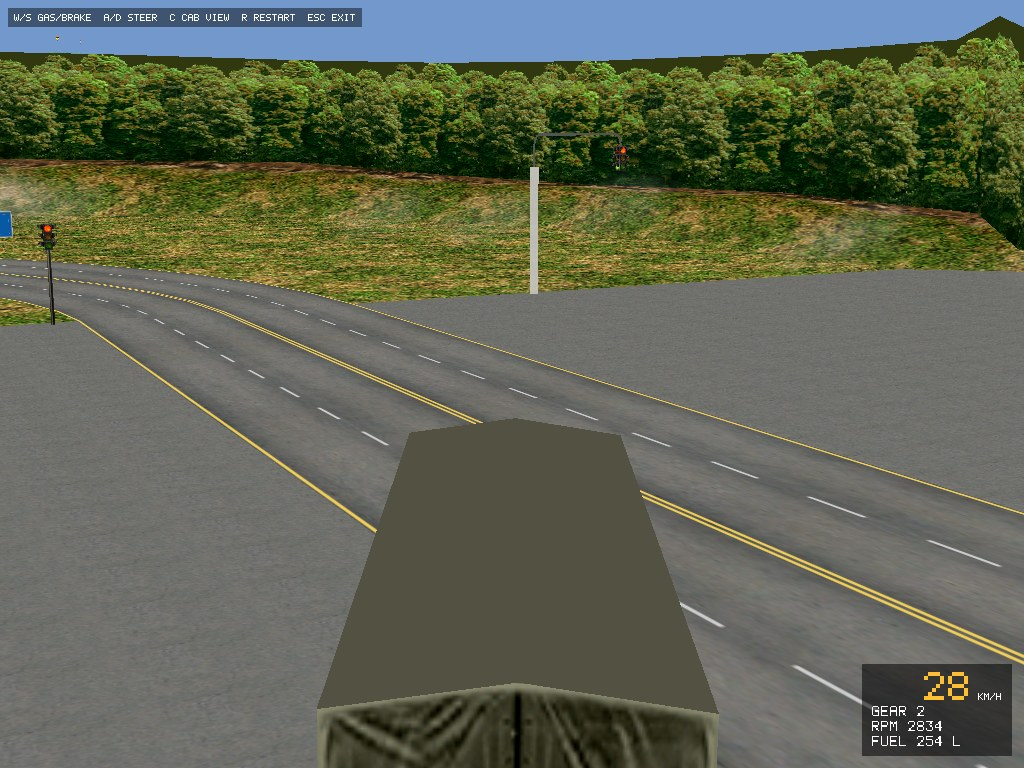
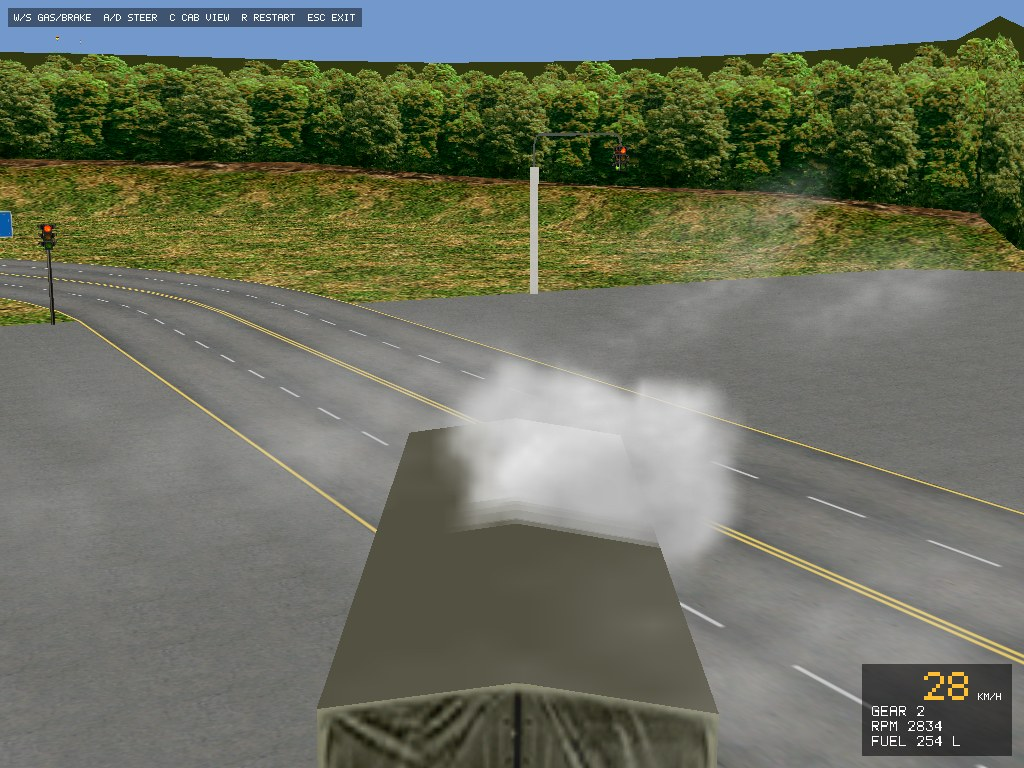
Drive particle emission from the ported 0x551970 branches

diff --git a/site/index.html b/site/index.html
@@ -62,7 +62,7 @@
 
 </details><div class="section-head"><h2 id="gallery">Галерея скриншотов</h2><p>Кадры из openHT2: текущая сборка, открытый мир и история переноса. Нажмите на снимок, чтобы рассмотреть детали.</p></div><div class="filters" role="group" aria-label="Фильтр галереи"><button data-filter="all" aria-pressed="true">Все кадры</button><button data-filter="new" aria-pressed="false">Новые</button><button data-filter="world" aria-pressed="false">Мир и локации</button><button data-filter="traffic" aria-pressed="false">Техника и ИИ</button></div><p id="gallery-count" aria-live="polite"></p>
   <p>Это работа самого движка openHT2 на данных установленной копии игры: открытый мир, гоночная трасса, грузовик, комбинат и арена.</p>
-  <div class="shots"><figure data-category="new"><a href="img/particles.jpg"><img src="img/particles.jpg" alt="Пыль из-под колёс в сцене" loading="lazy" width="1024" height="768"></a><figcaption><span class="badge">НОВОЕ</span><b>Частицы в сцене</b><br>Менеджер частиц подключён к грузовику, спрайты пыли и дыма из игровых ресурсов. Условия выброса пока временные. Кадр из openHT2; ресурсы принадлежат оригинальной игре.</figcaption></figure><figure data-category="new"><a href="img/cockpit-radar.jpg"><img src="img/cockpit-radar.jpg" alt="Кабина с радар-детектором" loading="lazy" width="1024" height="768"></a><figcaption><span class="badge">НОВОЕ</span><b>Исходные состояния приборов</b><br>После переноса переключателей B3D виден радар-детектор с индикаторами. Его начальный вид взят из файла; реакция на игровые события ещё не подключена.</figcaption></figure><figure data-category="new"><a href="img/cockpit-zil.jpg"><img src="img/cockpit-zil.jpg" alt="Приборы ЗИЛа в движении" loading="lazy" width="1024" height="768"></a><figcaption><span class="badge">НОВОЕ</span><b>Приборы ЗИЛа в движении</b><br>Оригинальная 3D-кабина: спидометр, тахометр и топливо подключены к симуляции. Остальные индикаторы ещё в работе.</figcaption></figure><figure data-category="new"><a href="img/cockpit-kamaz.jpg"><img src="img/cockpit-kamaz.jpg" alt="Кабина КамАЗа" loading="lazy" width="1024" height="768"></a><figcaption><span class="badge">НОВОЕ</span><b>Кабина КамАЗа</b><br>Своя панель и шкалы из CABINES.B3D. Камера сиденья пока временная.</figcaption></figure><figure data-category="new"><a href="img/current-chase.jpg"><img src="img/current-chase.jpg" alt="Камера за грузовиком" loading="lazy" width="1024" height="768"></a><figcaption><span class="badge">НОВОЕ</span><b>Камера за грузовиком</b><br>ЗИЛ у аэропорта. Текущий порт матриц и проекции; положение камеры пока временное.</figcaption></figure><figure data-category="new"><a href="img/current-cab.jpg"><img src="img/current-cab.jpg" alt="Вид из кабины" loading="lazy" width="1024" height="768"></a><figcaption><span class="badge">НОВОЕ</span><b>Вид из кабины</b><br>Аэропорт ENV с места водителя. Точка глаз и интерфейс пока временные.</figcaption></figure><figure data-category="new"><a href="img/current-overview.jpg"><img src="img/current-overview.jpg" alt="Дороги вокруг аэропорта" loading="lazy" width="1024" height="768"></a><figcaption><span class="badge">НОВОЕ</span><b>Дороги вокруг аэропорта</b><br>Свежий обзор района старта. Отладочная камера сверху.</figcaption></figure><figure data-category="new"><a href="img/current-road.jpg"><img src="img/current-road.jpg" alt="Первые метры пути" loading="lazy" width="1024" height="768"></a><figcaption><span class="badge">НОВОЕ</span><b>Первые метры пути</b><br>ЗИЛ после восьми секунд движения на перенесённой физике.</figcaption></figure>
+  <div class="shots"><figure data-category="new"><a href="img/particles.jpg"><img src="img/particles.jpg" alt="Пыль из-под колёс в сцене" loading="lazy" width="1024" height="768"></a><figcaption><span class="badge">НОВОЕ</span><b>Частицы в сцене</b><br>Выброс идёт через перенесённые ветки <code>0x551970</code> (колёса и выхлоп, побитовые сравнения с эмулятором) по временной сцене машины: пыль из-под колёс и пар выхлопа. Кадр из openHT2; ресурсы принадлежат оригинальной игре.</figcaption></figure><figure data-category="new"><a href="img/cockpit-radar.jpg"><img src="img/cockpit-radar.jpg" alt="Кабина с радар-детектором" loading="lazy" width="1024" height="768"></a><figcaption><span class="badge">НОВОЕ</span><b>Исходные состояния приборов</b><br>После переноса переключателей B3D виден радар-детектор с индикаторами. Его начальный вид взят из файла; реакция на игровые события ещё не подключена.</figcaption></figure><figure data-category="new"><a href="img/cockpit-zil.jpg"><img src="img/cockpit-zil.jpg" alt="Приборы ЗИЛа в движении" loading="lazy" width="1024" height="768"></a><figcaption><span class="badge">НОВОЕ</span><b>Приборы ЗИЛа в движении</b><br>Оригинальная 3D-кабина: спидометр, тахометр и топливо подключены к симуляции. Остальные индикаторы ещё в работе.</figcaption></figure><figure data-category="new"><a href="img/cockpit-kamaz.jpg"><img src="img/cockpit-kamaz.jpg" alt="Кабина КамАЗа" loading="lazy" width="1024" height="768"></a><figcaption><span class="badge">НОВОЕ</span><b>Кабина КамАЗа</b><br>Своя панель и шкалы из CABINES.B3D. Камера сиденья пока временная.</figcaption></figure><figure data-category="new"><a href="img/current-chase.jpg"><img src="img/current-chase.jpg" alt="Камера за грузовиком" loading="lazy" width="1024" height="768"></a><figcaption><span class="badge">НОВОЕ</span><b>Камера за грузовиком</b><br>ЗИЛ у аэропорта. Текущий порт матриц и проекции; положение камеры пока временное.</figcaption></figure><figure data-category="new"><a href="img/current-cab.jpg"><img src="img/current-cab.jpg" alt="Вид из кабины" loading="lazy" width="1024" height="768"></a><figcaption><span class="badge">НОВОЕ</span><b>Вид из кабины</b><br>Аэропорт ENV с места водителя. Точка глаз и интерфейс пока временные.</figcaption></figure><figure data-category="new"><a href="img/current-overview.jpg"><img src="img/current-overview.jpg" alt="Дороги вокруг аэропорта" loading="lazy" width="1024" height="768"></a><figcaption><span class="badge">НОВОЕ</span><b>Дороги вокруг аэропорта</b><br>Свежий обзор района старта. Отладочная камера сверху.</figcaption></figure><figure data-category="new"><a href="img/current-road.jpg"><img src="img/current-road.jpg" alt="Первые метры пути" loading="lazy" width="1024" height="768"></a><figcaption><span class="badge">НОВОЕ</span><b>Первые метры пути</b><br>ЗИЛ после восьми секунд движения на перенесённой физике.</figcaption></figure>
     <figure data-category="traffic"><a href="img/ai_models.jpg"><img src="img/ai_models.jpg" alt="Легковая и тягач Scania из мира ИИ на дороге ENV" loading="lazy" width="1024" height="768"></a><figcaption>Машины мира ИИ со своими моделями из каталога <code>evehicles.sch</code>: у каждой своя запись <code>vehicle.tech</code> для перенесённой физики</figcaption></figure>
     <figure data-category="traffic"><a href="img/ai_world.jpg"><img src="img/ai_world.jpg" alt="Машина мира ИИ на дороге ENV" loading="lazy" width="1024" height="768"></a><figcaption>Машина из мира ИИ оригинала: «призрак», появившийся на кольце 320 м вокруг игрока и едущий своим маршрутом</figcaption></figure>
     <figure data-category="traffic"><a href="img/ai_follow.jpg"><img src="img/ai_follow.jpg" alt="Камера за машиной потока ИИ на серпантине" loading="lazy" width="1024" height="768"></a><figcaption>Камера за одной из машин потока: маршрут к случайному узлу назначения — перенесённые генератор, выбор назначения и поиск пути модуля дорог</figcaption></figure>
@@ -330,7 +330,7 @@ cargo run --release -p ht2-tool -- res-ls "&lt;папка игры&gt;/ENV/aa.re
 <p>Частицы: 40 сквозных сценариев создания, движения и удаления совпали с оригиналом. Игровое подключение и отрисовка ещё в работе.</p>
 <p>Частицы: добавлен allocator приложения; три полных цикла проверяют освобождение и повторное использование ресурсов. SimCar и отрисовка ещё не подключены.</p>
 <p>Частицы: добавлен runtime приложения с пулом, часами и очисткой; проверены исчерпание, истечение и reuse. SimCar и рендер ещё не подключены.</p>
-<p>Частицы: менеджер шести классов (пыль, дым, пар, сажа, вспышка, сцена) собран в игре и подключён к грузовику: создание, обновление и удаление проверены без утечек, полный набор тестов проходит. Спрайты берутся из <code>COMMON.RES</code> и рисуются в сцене. Условия выброса, ёмкость пулов и положение сиденья пока заглушки: слой полей машины <code>0x54xxxx</code> не перенесён. Сравнения кадров с оригиналом ещё нет.</p>
+<p>Частицы: менеджер шести классов (пыль, дым, пар, сажа, вспышка, сцена) собран в игре и подключён к грузовику: создание, обновление и удаление проверены без утечек, полный набор тестов проходит. Спрайты берутся из <code>COMMON.RES</code> и рисуются в сцене. Ветки колёс, выхлопа и вспышек <code>0x551970</code> перенесены и проверены; поля машины <code>0x54xxxx</code>, запись <code>0x697xxx</code>, ёмкость пулов и оси сцены пока заглушки. Сравнения кадров с оригиналом ещё нет.</p>
 <p>Дым: перенесён исходный поиск материалов msmoke, 24 сравнения имён и флагов. Загрузка ресурсов в runtime и рендер ещё в работе.</p>
 <p>Дым: поиск материалов соединён с runtime и сменой кадра анимации. Архивный lookup и рендер ещё в работе.</p>
 </body>

diff --git a/crates/ht2-game/src/effects.rs b/crates/ht2-game/src/effects.rs
@@ -23,6 +23,9 @@ pub struct Effects {
     objects: Vec<Vec<ObjectId>>,
     index: HashMap<String, usize>,
     used: Vec<usize>,
+    /// Address of the stand-in vehicle scene object inside `mem`.
+    scene_at: u32,
+    previous_speed: f32,
 }
 
 fn effect_material_names(res_path: &Path) -> Result<Vec<String>, String> {
@@ -45,6 +48,42 @@ fn effect_material_names(res_path: &Path) -> Result<Vec<String>, String> {
     Ok(names)
 }
 
+/// Build the constant part of the stand-in vehicle scene read by `0x551970`.
+/// STAND-INS (the owners are the unported layer `0x54xxxx` and the vehicle tech record `0x697xxx`):
+/// axis vectors `0x702620/30/40` = (0,1,0)/(0,0,1)/(1,0,0) (inferred from use: spread, up, sideways),
+/// matrix `0x2c4` = identity, wheel points and the exhaust offset `(1.1,-3,2.6)`, the exhaust box,
+/// count scale 0.5, effect mode 4 (`p = 0.4`, no soot; modes 1 and 2 give `p >= 0.76`: soot and the `0x549e60` call, probably a damage state), `x` = 1.2*(1-throttle), ground level -100 (water branch and the low-vehicle branch off; `0x697fdc` is both the exhaust y and that test).
+fn fill_scene(m: &mut Mem) -> u32 {
+    let scene = m.alloc(0x14000);
+    let cfg = m.alloc(0x20);
+    let set = |m: &mut Mem, at: u32, v: &[f32]| v.iter().enumerate().for_each(|(i, x)| m.set_f32(at + i as u32 * 4, *x));
+    set(m, 0x702620, &[0.0, 1.0, 0.0]);
+    set(m, 0x702630, &[0.0, 0.0, 1.0]);
+    set(m, 0x702640, &[1.0, 0.0, 0.0]);
+    set(m, 0x702650, &[0.0, 0.0, 0.0]);
+    set(m, scene + 0x2c4, &[1.0, 0.0, 0.0, 0.0, 1.0, 0.0, 0.0, 0.0, 1.0, 0.0, 0.0, 0.0]);
+    m.set_u32(scene + 0x28b4, 0);
+    m.set_u32(scene + 0x5454, cfg);
+    m.set_u32(cfg + 0xc, 4);
+    m.write(scene + 0x2821, &[0xf]);
+    let wheels: [[f32; 3]; 4] = [[-1.0, 2.5, 0.2], [1.0, 2.5, 0.2], [-1.0, -2.5, 0.2], [1.0, -2.5, 0.2]];
+    for (k, w) in wheels.iter().enumerate() {
+        m.set_u32(scene + 0x4fb0 + k as u32 * 4, k as u32);
+        set(m, scene + 0x282c + k as u32 * 12, w);
+        m.set_f32(0x697a10 + k as u32 * 12, w[0]);
+    }
+    m.set_f32(0x6979f8, -100.0);
+    m.set_f32(0x697db8, 0.5);
+    m.set_f32(0x697dc0, 0.5);
+    for (o, v) in [(0x697dc4, 5.0), (0x697dc8, 6.0), (0x697dcc, 6.0), (0x697dd0, -5.0), (0x697dd4, -6.0), (0x697dd8, 0.0)] {
+        m.set_f32(o, v);
+    }
+    for (o, v) in [(0x697fd8, 1.1), (0x697fdc, -3.0), (0x697fe0, 2.6)] {
+        m.set_f32(o, v);
+    }
+    scene
+}
+
 impl Effects {
     pub fn load(renderer: &mut Renderer, game_dir: &Path) -> Result<Self, String> {
         let res_path = game_dir.join("COMMON").join("COMMON.RES");
@@ -56,36 +95,51 @@ impl Effects {
         let world = ParticleWorld::new(&mut mem, CAPACITY, |n| have.contains(n)).map_err(|e| e.to_string())?;
         let index = names.iter().cloned().enumerate().map(|(i, n)| (n, i)).collect();
         let n = names.len();
-        Ok(Self { mem, world, scene, textures, objects: vec![Vec::new(); n], index, used: vec![0; n] })
+        let scene_at = fill_scene(&mut mem);
+        Ok(Self { mem, world, scene, textures, objects: vec![Vec::new(); n], index, used: vec![0; n], scene_at, previous_speed: 0.0 })
     }
 
-    /// Fixed-step emission for the truck at `body` (model matrix, +Y forward, +Z up).
+    /// Fixed-step emission for the truck at `body` (model matrix, +Y forward, +Z up) moving at `speed`.
+    /// The original decides this in `0x551970` from the vehicle object; here its scene fields are filled
+    /// from the ported vehicle and the ported branches (`scene_wheel_requests`, `scene_exhaust_branch`)
+    /// run on them in the original order. STAND-INS are listed in `fill_scene`.
     pub fn emit(&mut self, body: Mat4, speed: f32, throttle: f32) {
-        let m = &mut self.mem;
-        let at = |p: Vec3| body.transform_point3(p).to_array();
-        let dir = body.transform_vector3(Vec3::new(0.0, -0.3, 0.6)).to_array();
-        if throttle > 0.0 {
-            self.world.emit_exhaust(m, at(Vec3::new(1.1, -3.0, 2.6)), dir, throttle.min(1.0));
+        // STAND-IN: the autopilot demo does not run the powertrain input, so accelerating counts as full throttle
+        let throttle = if throttle > 0.0 || speed > self.previous_speed { throttle.max(if speed > self.previous_speed { 1.0 } else { 0.0 }) } else { 0.0 };
+        self.previous_speed = speed;
+        let Self { mem: m, world, scene_at, .. } = self;
+        let scene = *scene_at;
+        let c = body.to_cols_array();
+        let cols = [c[0], c[1], c[2], c[4], c[5], c[6], c[8], c[9], c[10], c[12], c[13], c[14]];
+        for (i, v) in cols.into_iter().enumerate() {
+            m.set_f32(scene + 0x204 + i as u32 * 4, v);
         }
-        if speed.abs() > 5.0 {
-            let back = body.transform_vector3(Vec3::new(0.0, -speed.abs() * 0.05, 0.4)).to_array();
-            for x in [-1.0, 1.0] {
-                self.world.emit_dust(m, at(Vec3::new(x, -2.5, 0.2)), back, (speed.abs() / 20.0).min(1.0));
+        let velocity = body.y_axis.truncate() * speed;
+        for i in 0..3 {
+            m.set_f32(scene + 0x1b0 + i as u32 * 4, velocity[i]);
+        }
+        let slip = if speed.abs() > 5.0 { (speed.abs() / 20.0).min(1.0) } else { 0.0 };
+        for i in 0..4 {
+            m.set_f32(scene + 0x27f0 + i * 4, slip);
+        }
+        let cfg = m.u32(scene + 0x5454);
+        m.set_f32(cfg + 8, (1.0 - throttle.clamp(0.0, 1.0)) * 1.2);
+        let basis = scene + 0x10000;
+        ht2_sim::instruments::scene_geometry_basis(m, scene, basis);
+        for w in ht2_sim::instruments::scene_wheel_requests(m, scene, basis) {
+            if let ht2_sim::instruments::WheelEffectPoint::World(p) = w.point {
+                world.emit_dust(m, p, w.direction, f32::from_bits(w.intensity));
             }
         }
-    }
-
-    /// Camera for the dust particles (`vp` is the combined view-projection); STAND-IN for the camera layer.
-    pub fn set_camera(&mut self, vp: Mat4) {
-        let inv = vp.inverse();
-        let at = |x: f32, y: f32, z: f32| {
-            let v = inv * Vec4::new(x, y, z, 1.0);
-            v.truncate() / v.w
-        };
-        let eye = at(0.0, 0.0, 0.0);
-        let forward = (at(0.0, 0.0, 0.9) - eye).normalize_or_zero();
-        let up = (at(0.0, 1.0, 0.5) - at(0.0, 0.0, 0.5)).normalize_or_zero();
-        self.world.set_camera(&mut self.mem, [0.0; 3], forward.to_array(), up.to_array());
+        // the exhaust emitter is reached through a raw pointer pair because `world` and `m` are
+        // both borrowed by the closures
+        let world_ptr: *mut ParticleWorld = world;
+        ht2_sim::instruments::scene_exhaust_branch(
+            m, scene, scene + 0x11000,
+            |m| ht2_sim::globals::rand(m),
+            |_| {},
+            |m, e| unsafe { (*world_ptr).emit_exhaust(m, e.position, e.velocity, e.p) },
+        );
     }
 
     pub fn tick(&mut self, dt: f64) {

diff --git a/crates/ht2-game/src/main.rs b/crates/ht2-game/src/main.rs
@@ -646,9 +646,7 @@ impl Game {
         let v = &self.world.vehicle;
         let throttle = v.last.map_or(0.0, |o| o.throttle_eff);
         let (body, speed) = (v.model(), v.speed);
-        let camera = chase_view_proj(&self.world.vehicle, (1024, 768)).combined();
         if let Some(e) = &mut self.effects {
-            e.set_camera(camera);
             e.emit(body, speed, throttle);
             e.tick(dt as f64);
         }

diff --git a/docs/ENGINE.md b/docs/ENGINE.md
@@ -2448,3 +2448,14 @@ emit_exhaust переносит 0x4ba660 (дым выхлопа): первый r
 Порядок вызовов `rand` и `emit` совпадает с оригиналом, потому что `emit` вызывается внутри цикла.
 Golden: `gen_scene_exhaust_branch.py` (500 случаев, 248 с выбросами, 122 с вызовом `0x549e60`), совпадение побитовое.
 Промежуточные значения x87 считаются в `f64` (расширенную точность не воспроизводим), на golden расхождений нет.
+
+### Эмиссия в игре по перенесённым веткам `0x551970`
+
+`Effects::emit` больше не решает по газу: он заполняет заглушечную сцену (`fill_scene`) и вызывает
+`scene_geometry_basis`, `scene_wheel_requests` (-> `emit_dust`) и `scene_exhaust_branch` (-> `emit_exhaust`) в порядке оригинала.
+ЗАГЛУШКИ: оси `0x702620/30/40` = (0,1,0)/(0,0,1)/(1,0,0) (по использованию: разброс, вверх, вбок), матрица `0x2c4` единичная,
+`0x204` = модель кузова, `0x1b0` = скорость кузова, точки колёс и выхлопа, коробка `0x697dc4..dd8`, масштаб числа частиц `0x697db8 = 0.5`,
+режим 4. Режимы 1 и 2 дают `p >= 0.76`: сажа (`burn*`, огненный шар) и вызов `0x549e60`, это скорее состояние повреждения, обычной езде
+соответствует режим 4 (`p = 0.4`, только пар). Поле `0x697fdc` — одновременно смещение выхлопа по y и граница «низкой» ветки
+(при `rec[fdc] - rec[9f8] <= 0`), поэтому уровень `0x6979f8` стоит -100. В демо на автопилоте `throttle_eff` равен 0, там газ заменён признаком ускорения.
+Не подключено: вспышки (`scene_flash_requests`, флаги `0x27b4`), ветка `0x4bac90`, расписание вызова (`0x551970` в оригинале идёт не каждый шаг).
